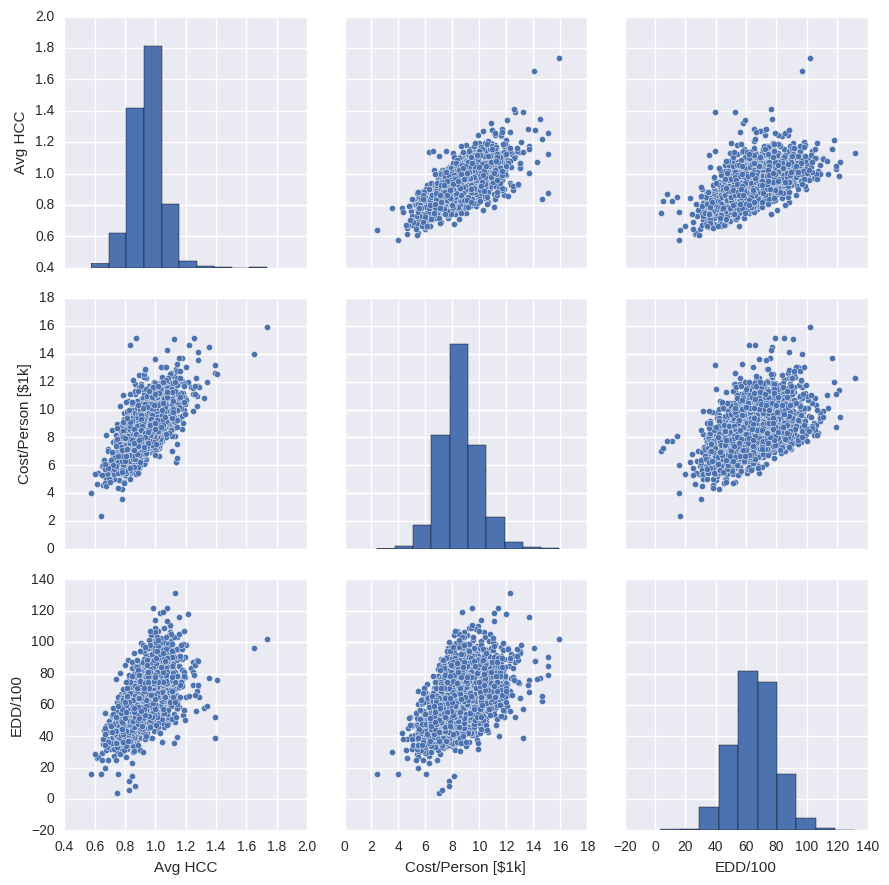
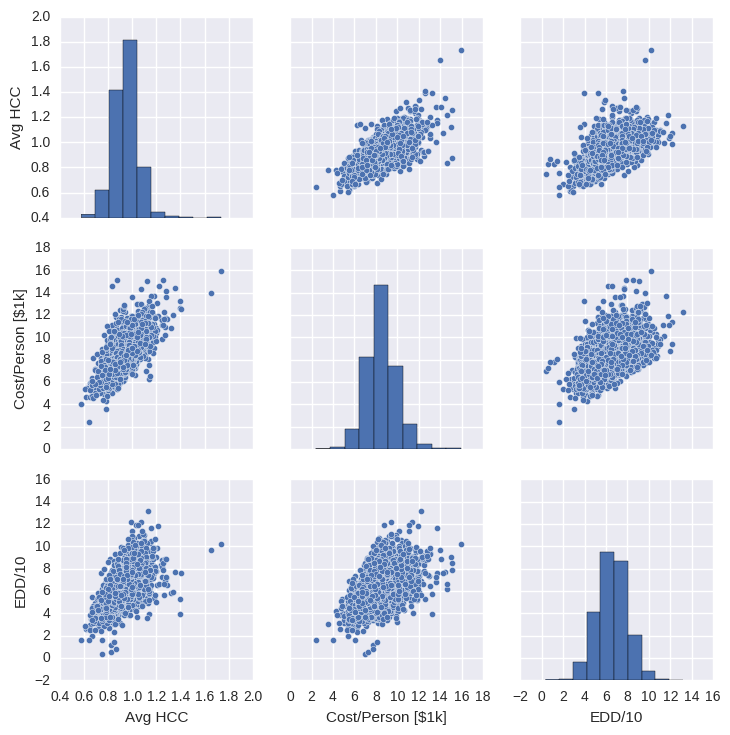
updated image size

diff --git a/project_1/explore.py b/project_1/explore.py
@@ -18,8 +18,8 @@ pair_cols = [
     ]
 
 plt_df = ct[pair_cols].dropna()
-plt_df.columns = ['Avg HCC', 'Cost/Person [$1k]', 'EDD/100']
+plt_df.columns = ['Avg HCC', 'Cost/Person [$1k]', 'EDD/10']
 plt_df['Cost/Person [$1k]'] = plt_df['Cost/Person [$1k]'] * 1.0e-3
-plt_df['EDD/100'] = plt_df['EDD/100'] * 1.0e-1
-g = sns.pairplot(plt_df, size=3.0)
+plt_df['EDD/10'] = plt_df['EDD/10'] * 1.0e-2
+g = sns.pairplot(plt_df, size=2.5)
 g.savefig('pairplot.png')
